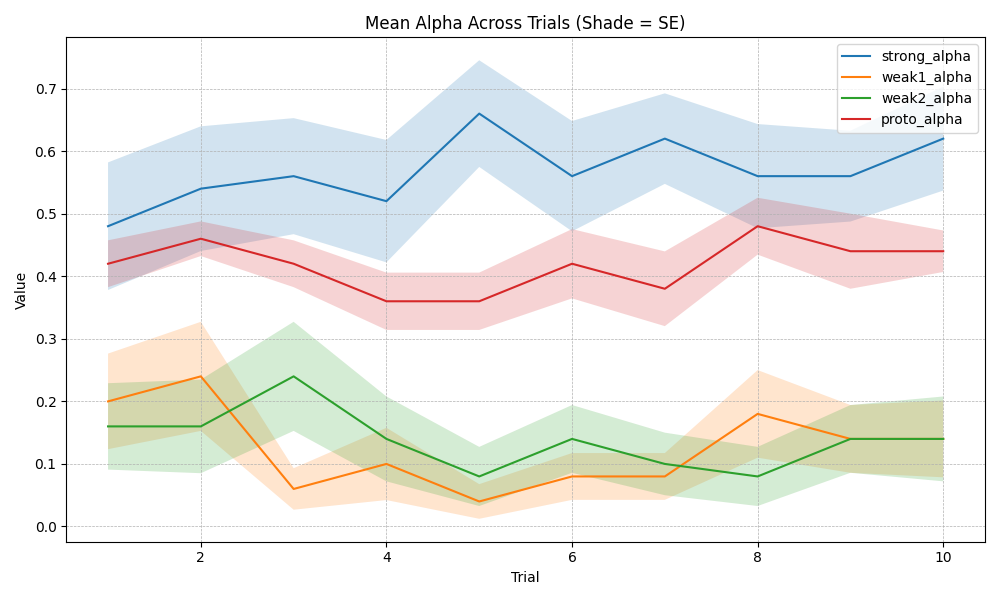
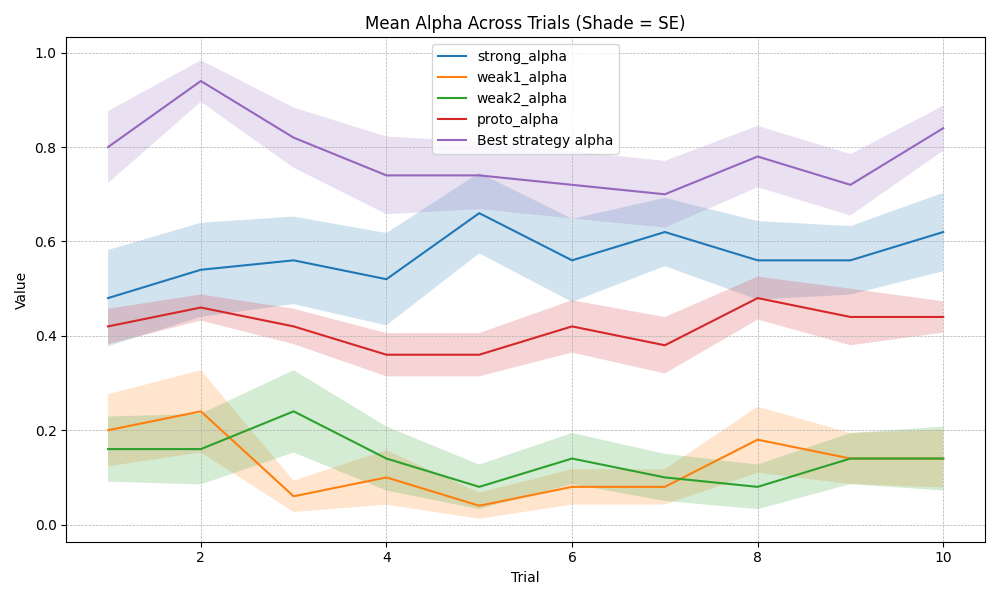
Added best strategy alpha across trials

diff --git a/plots/alpha_plot.py b/plots/alpha_plot.py
@@ -19,7 +19,7 @@ grouped_se = grouped_stds / np.sqrt(grouped_counts) # Grouped Standard errors
 
 plt.figure(figsize=(10, 6)) # Initialise figure
 
-columns = ['strong_alpha', 'weak1_alpha', 'weak2_alpha', 'proto_alpha']
+columns = ['strong_alpha', 'weak1_alpha', 'weak2_alpha', 'proto_alpha', 'best_alpha']
 
 for column in columns:
     plt.plot(grouped_means.index, grouped_means[column], label=column)
@@ -31,7 +31,8 @@ for column in columns:
 plt.title('Mean Alpha Across Trials (Shade = SE)')
 plt.xlabel('Trial')
 plt.ylabel('Value')
-plt.legend()
+legend = plt.legend()
+legend.get_texts()[4].set_text("Best strategy alpha")
 plt.grid(True, which='both', linestyle='--', linewidth=0.5)
 plt.tight_layout()
 plt.savefig(f"images/participants_{n_participants}/alpha_plot_part{n_participants}")
